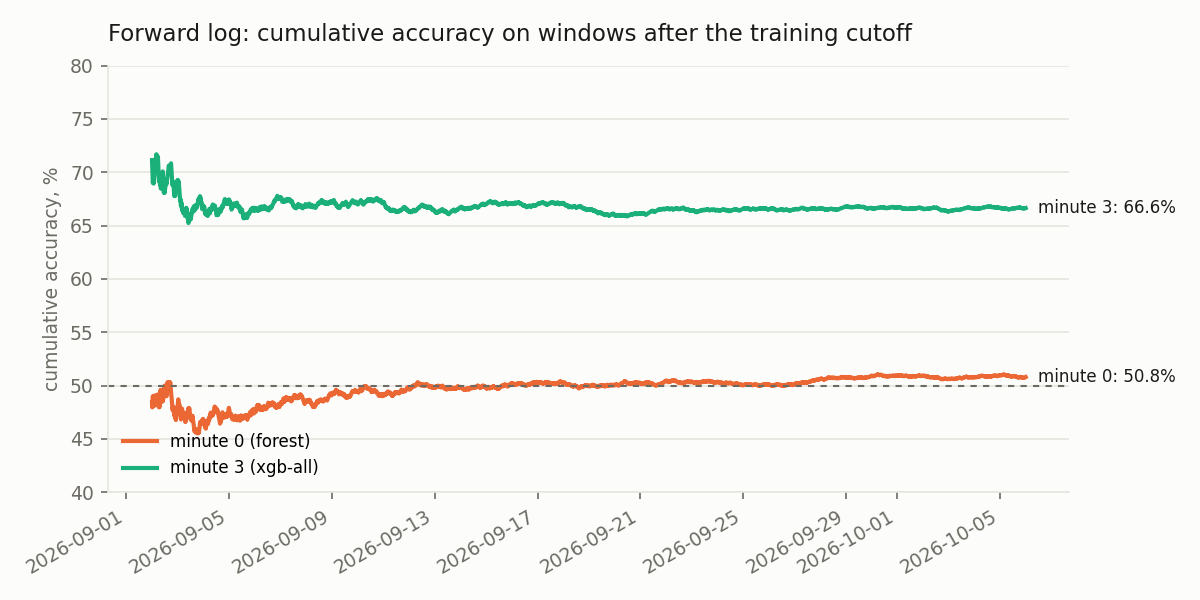
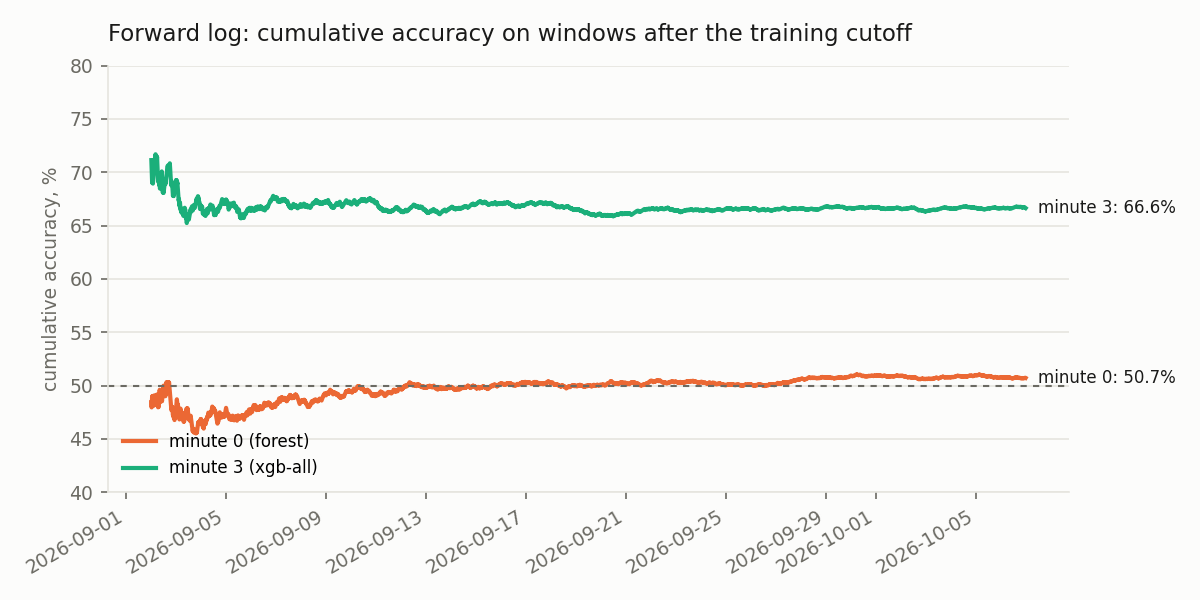
Forward log through 2026-10-06 (daily runner)

diff --git a/docs/btc_15m.md b/docs/btc_15m.md
@@ -126,12 +126,12 @@ Holdout (September 2026): 2026-09-01 to 2026-09-30.
 | 0 | forest | 2,880 | 50.94% |
 | 3 | xgb-all | 2,880 | 66.67% |
 
-Forward log (from October 2026): 2026-10-01 to 2026-10-05.
+Forward log (from October 2026): 2026-10-01 to 2026-10-06.
 
 | minute | model | windows | accuracy |
 |---|---|---|---|
-| 0 | forest | 480 | 50.00% |
-| 3 | xgb-all | 480 | 66.46% |
+| 0 | forest | 576 | 49.65% |
+| 3 | xgb-all | 576 | 66.49% |
 
 <!-- forward:end -->
 
